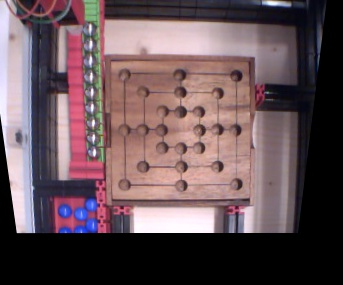
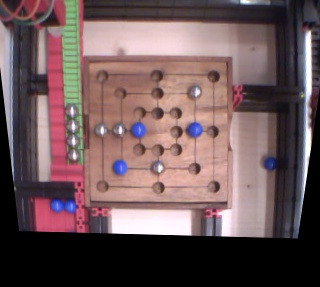
04 updated recognition method

diff --git a/Tria.py b/Tria.py
@@ -13,10 +13,9 @@ import random
 import cv2
 import logging
 import opt
-import data
+from data import data
 import sys
 import math
-import Align_TXTCamIMG
 logging.basicConfig(level=logging.DEBUG)
 debug = logging.debug
 
@@ -228,7 +227,7 @@ def ValposReset():
                 f.write(bytearray(frameCamera))
     except BaseException:
         sys.exit(0)
-    Align_TXTCamIMG.run()
+    execfile("Align_TXTCamIMG.py",globals())
     img = cv2.imread(IMAGE_ALIGN, 1)
     for i in range(0, 24):
         blue = 0
@@ -253,7 +252,7 @@ def ValposUpdate():
     frameCamera = txt.getCameraFrame()
     with open(CAM_IMAGE, 'wb') as f:
         f.write(bytearray(frameCamera))
-    Align_TXTCamIMG.run()
+    execfile("Align_TXTCamIMG.py",globals())
     img = cv2.imread(IMAGE_ALIGN, 1)
     if opt.ContatoreVPU > 1:
         opt.ValposOld = data.ReturnValue("Val")
@@ -267,20 +266,18 @@ def ValposUpdate():
                 blue += b
                 green += g
                 red += r
-        if math.sqrt(((blue - ValposCameraB[i]) ** 2) + (
-                (green - ValposCameraG[i]) ** 2) + ((blue - ValposCameraR[i]) ** 2)) > 5000:
+        if math.sqrt(((ValposCameraB[i] -
+                       blue) ** 2) + ((ValposCameraG[i] -
+                                       green) ** 2) + ((ValposCameraR[i] -
+                                                        red) ** 2)) > 4000:
             if Val[i] == EMPTY:
                 Val[i] = USER
                 opt.PosPallineNuoveU.append(i)
                 print("pallina blu nella posizione "), i
-        print(math.sqrt(((ValposCameraUpdatedB[i] -
-                          blue) ** 2) + ((ValposCameraUpdatedG[i] -
-                                          green) ** 2) + ((ValposCameraUpdatedR[i] -
-                                                           red) ** 2)))
         if math.sqrt(((ValposCameraUpdatedB[i] -
                        blue) ** 2) + ((ValposCameraUpdatedG[i] -
                                        green) ** 2) + ((ValposCameraUpdatedR[i] -
-                                                        red) ** 2)) > 6000:
+                                                        red) ** 2)) > 4000:
             if Val[i] == ROBOT:
                 if opt.TogliPallineR:
                     flag = 0
@@ -307,10 +304,14 @@ def ValposUpdate():
                     RIMETTI A POSTO!""")
                     AttendUser()
                     ValposUpdate()
-        if opt.Fase == 2:
-            if Val[i] == USER:
-                Val[i] = EMPTY
-                debug("Pallina Utente rimossa dalla posizione %d" % (i))
+        if math.sqrt(((ValposCameraUpdatedB[i] -
+                       blue) ** 2) + ((ValposCameraUpdatedG[i] -
+                                       green) ** 2) + ((ValposCameraUpdatedR[i] -
+                                                        red) ** 2)) > 6000:
+            if opt.Fase == 2:
+                if Val[i] == USER:
+                    Val[i] = EMPTY
+                    debug("Pallina Utente rimossa dalla posizione %d" % (i))
     data.Insert("Val", Val)
     data.Insert("ValposOld", opt.ValposOld)
 
@@ -320,14 +321,14 @@ def ValposCameraUpdate():
     frameCamera = txt.getCameraFrame()
     with open(CAM_IMAGE, 'wb') as f:
         f.write(bytearray(frameCamera))
-    Align_TXTCamIMG.run()
+    execfile("Align_TXTCamIMG.py",globals())
     img = cv2.imread(IMAGE_ALIGN, 1)
     for i in range(0, 24):
         blue = 0
         green = 0
         red = 0
-        for j in range(0, 15):
-            for k in range(0, 15):
+        for j in range(0, (strati * 2) + 1):
+            for k in range(0, (strati * 2) + 1):
                 b, g, r = img[YposIMG[i] + k, XposIMG[i] + j]
                 blue += b
                 green += g

diff --git a/align_TXTCamIMG.py b/align_TXTCamIMG.py
@@ -119,35 +119,29 @@ def make_matrix(pp, qq=None):
         pp_to_array(qq))
 
 
-def run():
-    board = read_image("img/TXTCamIMG2.jpg")
-    try:
-        with open(POS_PICKLE_FILE) as file:
-            pp = pickle.load(file)
-    except Exception:
-        with open(POS_PICKLE_FILE, "w") as file:
-            pp = pick_positions(board, count=4)
-            pickle.dump(pp, file)
+board = read_image("img/TXTCamIMG.jpg")
+try:
+    with open(POS_PICKLE_FILE) as file:
+        pp = pickle.load(file)
+except Exception as e:
+    print(e)
+    with open(POS_PICKLE_FILE, "w") as file:
+        pp = pick_positions(board, count=4)
+        pickle.dump(pp, file)
 
-    tl, tr, bl, br = pp
-    qq = (tl,
-          Point(tr.x, tl.y),
-          Point(tl.x, bl.y),
-          Point(tr.x, bl.y))
-    mat = make_matrix(pp, qq)
+tl, tr, bl, br = pp
+qq = (tl,
+      Point(tr.x, tl.y),
+      Point(tl.x, bl.y),
+      Point(tr.x, bl.y))
+mat = make_matrix(pp, qq)
 
-    w = max(tr.x, br.x) + 100
-    h = max(bl.y, br.y) + 100
-    board = cv2.warpPerspective(board, mat, (w, h))
+w = max(tr.x, br.x) + 100
+h = max(bl.y, br.y) + 100
+board = cv2.warpPerspective(board, mat, (w, h))
 
-    qq = pp_to_array(pp).dot(mat[:2, :2])
-    qq = [Point(p) for p in qq]
-    oo = inteporlate(*qq)
+qq = pp_to_array(pp).dot(mat[:2, :2])
+qq = [Point(p) for p in qq]
+oo = inteporlate(*qq)
 
-    write_image(board, "img/aligned2.jpg")
-
-    cv2.waitKey(0)
-
-
-if __name__ == "__main__":
-    run()
+write_image(board, "img/aligned.jpg")
